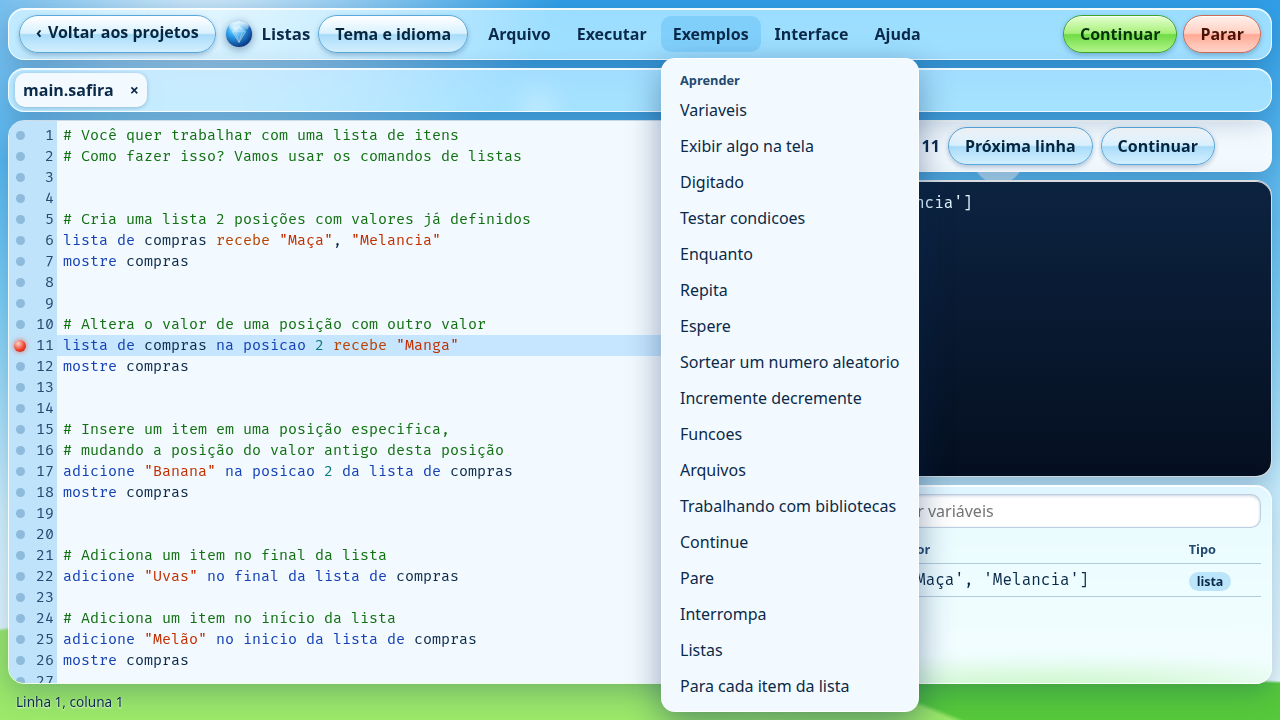
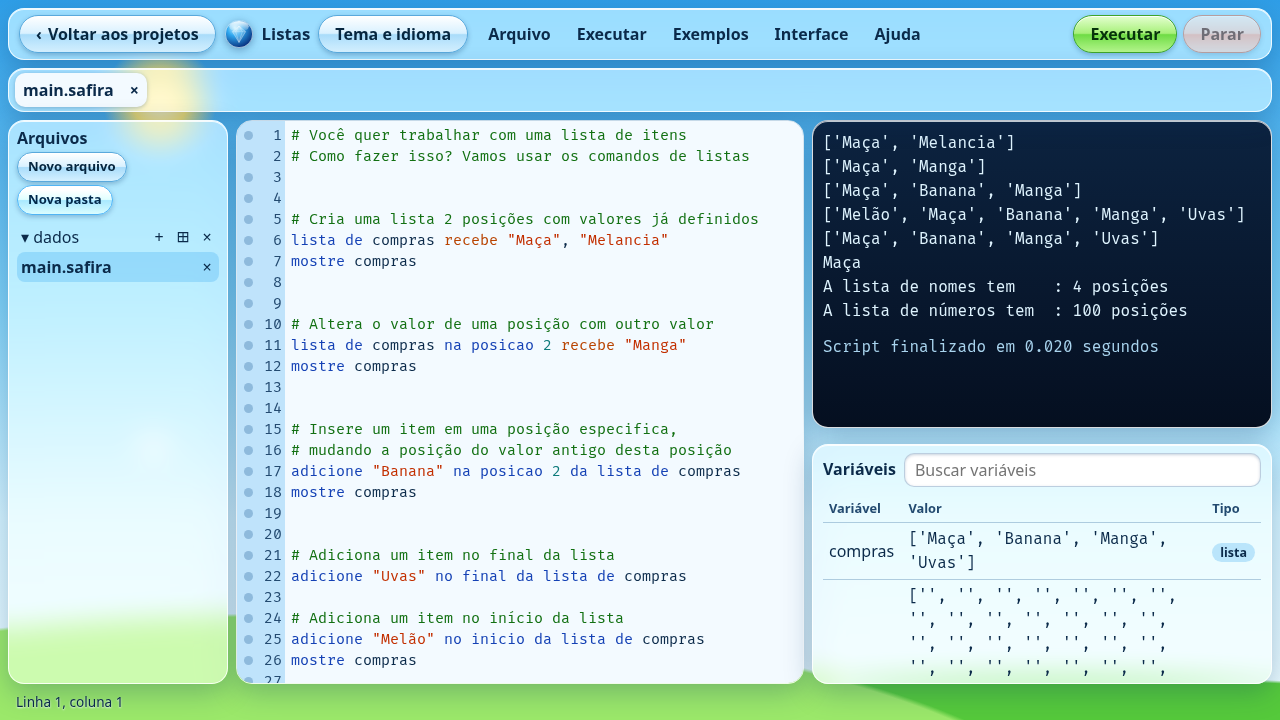
Document addresses, zip files, crash recovery and the animation traps

diff --git a/CHANGELOG.md b/CHANGELOG.md
@@ -16,7 +16,18 @@ Safira was rewritten from Python and Tkinter to a web IDE in TypeScript.
 - Variables inspector, always visible, with search and types.
 - Top menu with Radix, navigable by keyboard and touch.
 - Frutiger Aero look, with illustrated theme and language choices on every screen.
-- Phone layout with Code, Output and Variables panels and 44 pixel touch targets.
+- Commands on the same line after conditions and loops, as in `se x entao mostre "a" senao mostre "b"`.
+- Addresses for every screen, lesson, lesson section, project and file, with the browser back button.
+- File sidebar with folders in each project.
+- Unsaved work is kept while typing and recovered after a crash or a power cut.
+- Import and export of projects as `.zip`, into a new project or the open one.
+- Lessons in real markdown, with colored code and a button to open each example in the IDE.
+- Resizable panels, by mouse and keyboard, kept between sessions.
+- Language changes rewrite the letters of the interface, and themes change in the scenery itself.
+- Modals with an overlay, a retro opening and a closing animation, closing when clicking outside.
+- Confirmation before deleting a project or a file.
+- Styled mouse cursor and scrollbars.
+- Phone layout with Files, Code, Output and Variables panels and 44 pixel touch targets.
 
 ### Changed
 

diff --git a/README.md b/README.md
@@ -31,6 +31,10 @@ project has its own virtual files, which is where `crie o arquivo`, `leia o arqu
 Click the dot beside a line to set a breakpoint: running stops there, and the variables inspector shows the values. On a
 phone the IDE splits into Code, Output and Variables panels.
 
+Every screen has an address: `#/new/16-listas`, `#/lessons/aula-02-exibicao/comando-de-exibicao`,
+`#/projects/<id>/dados%2Fnotas.txt`. Projects move between browsers as `.zip` files, and unsaved work is kept while typing
+so that it comes back after a crash or a power cut.
+
 Every script keeps its language version on a hidden first line (`#safira 1.0`). The IDE only mentions it when the version
 is not supported. A script without that line is treated as version 0.38, the last Python release.
 
@@ -42,7 +46,8 @@ is not supported. A script without that line is treated as version 0.38, the las
 4. Install the test browser: `pnpm exec playwright install --with-deps chromium`
 5. Check everything: `pnpm run check:all`
 
-Projects live in the browser `localStorage`, so they are not in the repository and do not move between PCs.
+Projects live in the browser `localStorage`, so they are not in the repository. Use the `.zip` export to move them
+between PCs.
 
 ## Available scripts
 

diff --git a/CLAUDE.md b/CLAUDE.md
@@ -27,4 +27,9 @@ setup and scripts.
 - `mostre` examples named `Continue` and `Pare` collide with button names in tests. Keep action labels distinct.
 - Breakpoints snap to the next command in `snapBreakpoints`, because comments never produce a step.
 - In Playwright, wait for the focus to enter a Radix menu before pressing arrows, or the key moves the trigger.
+- `textScramble.ts` writes in text nodes owned by React and must end with the exact final text.
+- Radix marks everything behind a modal as `aria-hidden`, so that attribute cannot be used to skip text.
+- `Modal` closes by unmounting, so the closing animation plays on a clone left in `document.body`.
+- Empty folders are a `.keep` file in `Project.files`. Lists shown to the user go through `visibleFiles`.
+- Waiting for animations in Playwright needs `allSettled`: a removed element rejects `finished`.
 - A new language version must be added to `SUPPORTED_VERSIONS` while it can still run the older ones.

diff --git a/docs/security.md b/docs/security.md
@@ -15,6 +15,8 @@ Include the version, the steps and the impact.
 - The interpreter walks a syntax tree. There is no `eval` or `Function`, and no way to reach JavaScript from Safira.
 - Files are virtual, kept per project. The language has no access to disk, network or browser storage.
 - Output is rendered as text by React.
+- An imported `.zip` is limited to 500 files and 4 MB, paths that leave the project are refused and binary files are skipped.
+- Lesson markdown ignores raw HTML.
 - A recursion limit stops functions that never end, and the Stop button terminates the worker.
 
 ## Accepted risks

diff --git a/docs/accessibility.md b/docs/accessibility.md
@@ -17,6 +17,8 @@ The target is WCAG 2.1 AA.
 - Modals take the focus and close with Escape.
 - The top menu follows the menu bar pattern: arrows move between and inside menus, Escape returns to the trigger.
 - Theme and language are radio buttons, even though they look like pictures.
+- Panel dividers are separators that work with the arrow keys.
+- Language and theme animations are skipped with the reduced motion preference, and the rewritten letters are not announced.
 - On a phone, touch targets have at least 44 pixels.
 
 ## Known limits
